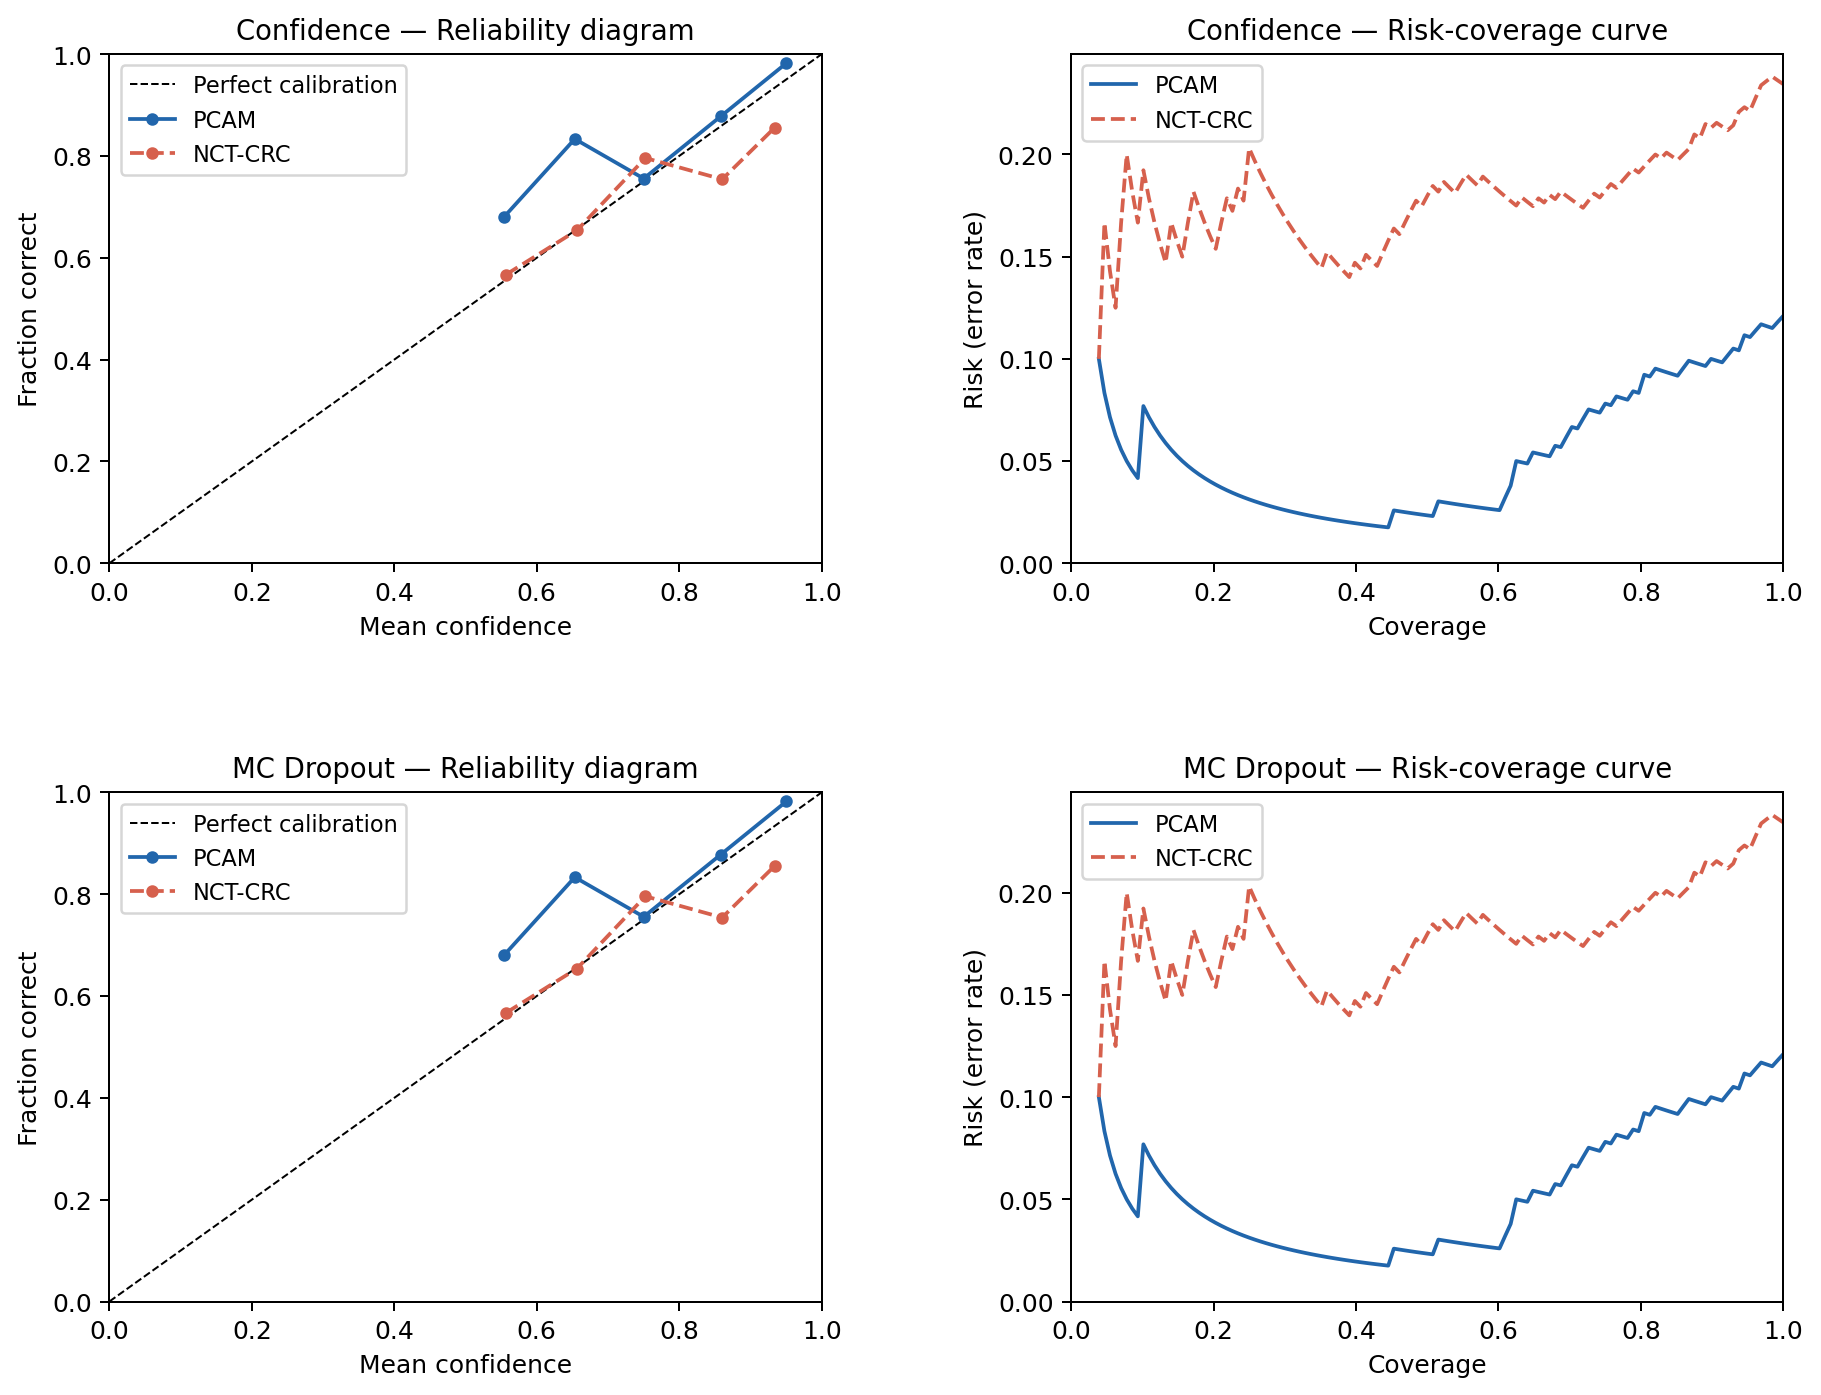
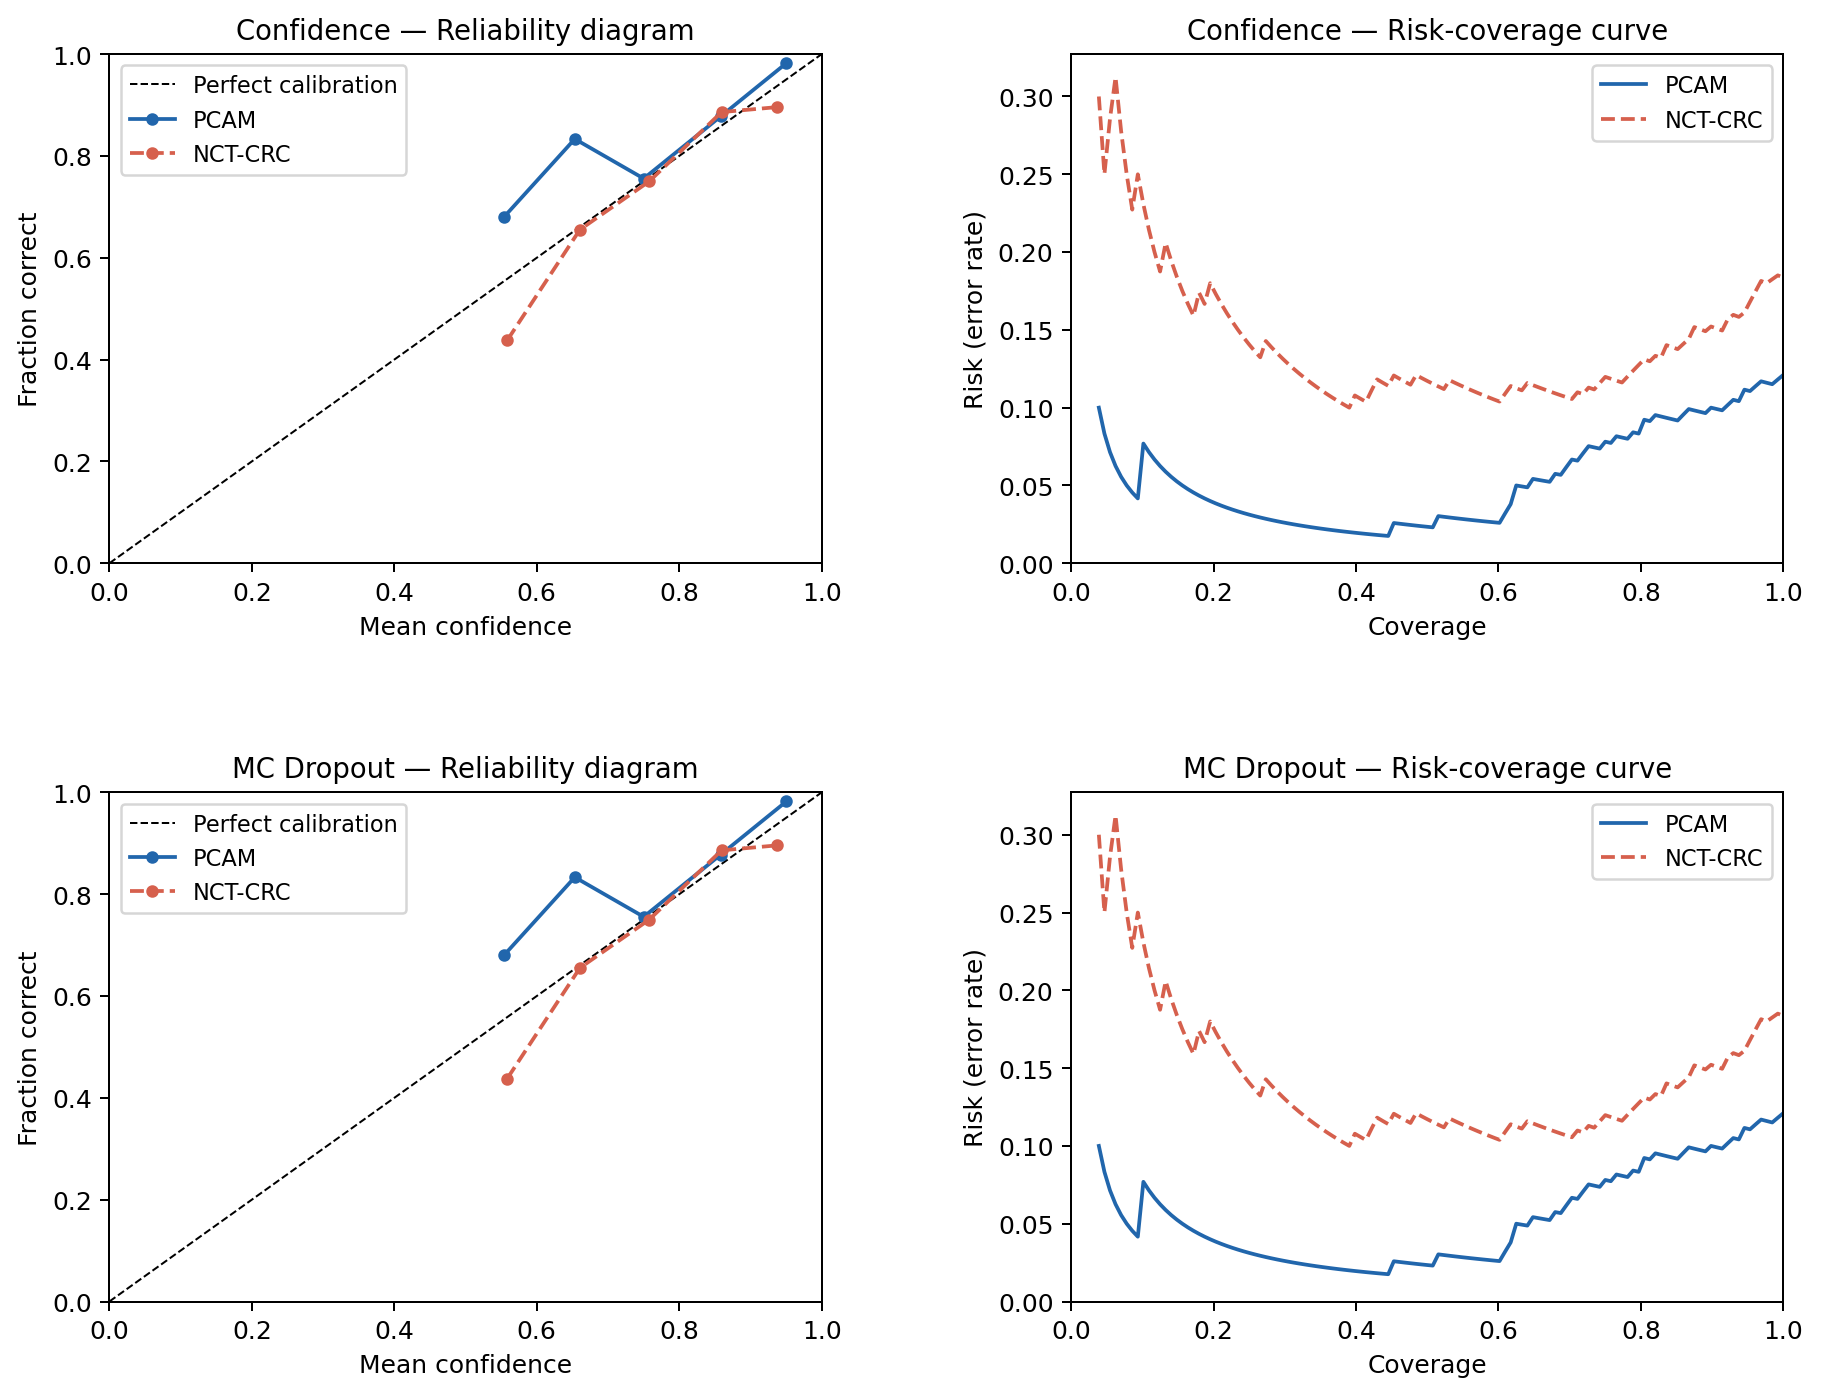
Fix cross-domain figure: use balanced NCT-CRC sampling
Previous version used unbalanced random sampling (13% TUM), giving 76%
accuracy vs the expected 84%. Now uses 50/50 TUM/non-TUM balanced
sampling matching the original evaluation protocol. Figures now show
the correct overconfidence pattern and risk-coverage gap.

diff --git a/experiments/generate_cross_domain_plots.py b/experiments/generate_cross_domain_plots.py
@@ -62,9 +62,14 @@ def load_pcam(n):
 
 
 def load_nct(n):
-    """NCT-CRC: label 1 = TUM (tumour), everything else = 0."""
+    """NCT-CRC: label 1 = TUM (tumour), everything else = 0. Balanced 50/50."""
     all_paths = list(NCT_ROOT.rglob("*.tif")) + list(NCT_ROOT.rglob("*.png"))
-    sel = random.sample(all_paths, min(n, len(all_paths)))
+    tum_paths  = [p for p in all_paths if "TUM" in str(p).upper()]
+    rest_paths = [p for p in all_paths if "TUM" not in str(p).upper()]
+    per_class = n // 2
+    sel_tum  = random.sample(tum_paths,  min(per_class, len(tum_paths)))
+    sel_rest = random.sample(rest_paths, min(per_class, len(rest_paths)))
+    sel = sel_tum + sel_rest
     imgs   = [Image.open(p).convert("RGB") for p in sel]
     labels = [1 if "TUM" in str(p).upper() else 0 for p in sel]
     return imgs, labels